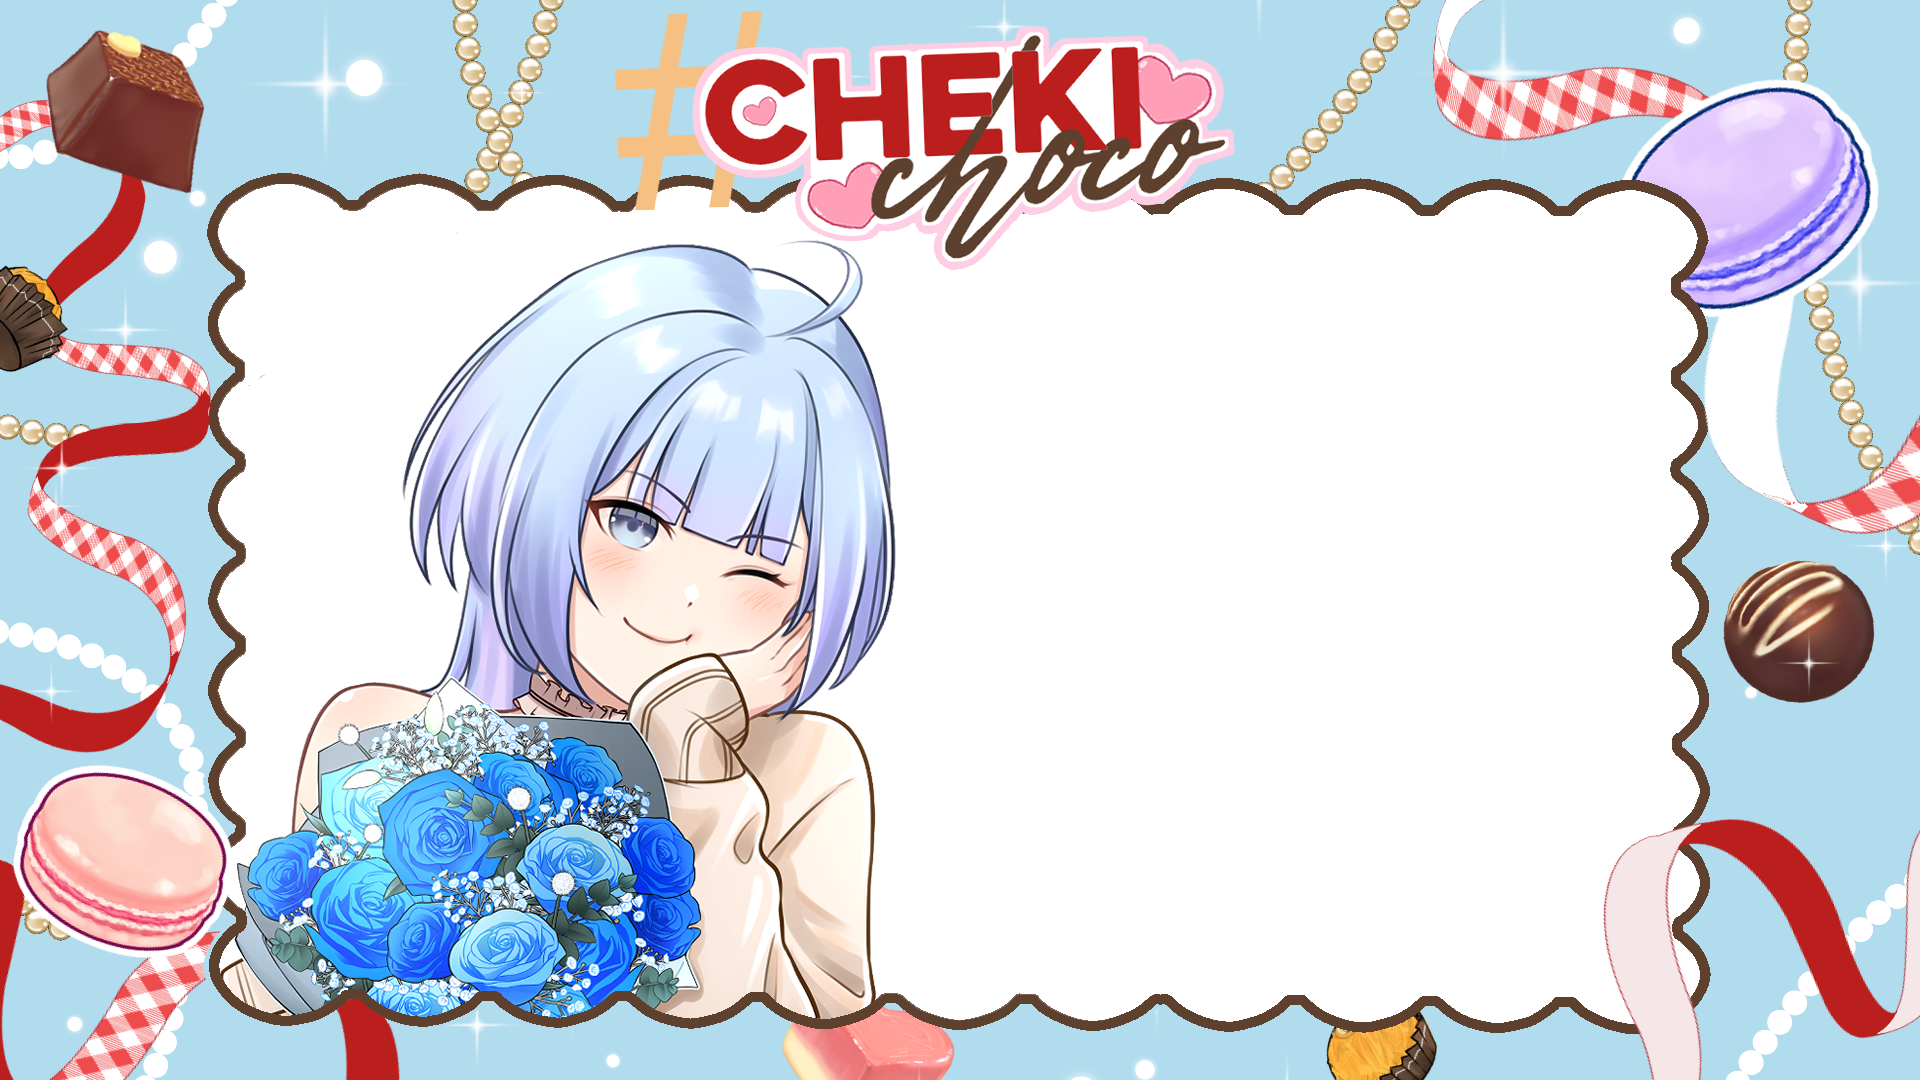
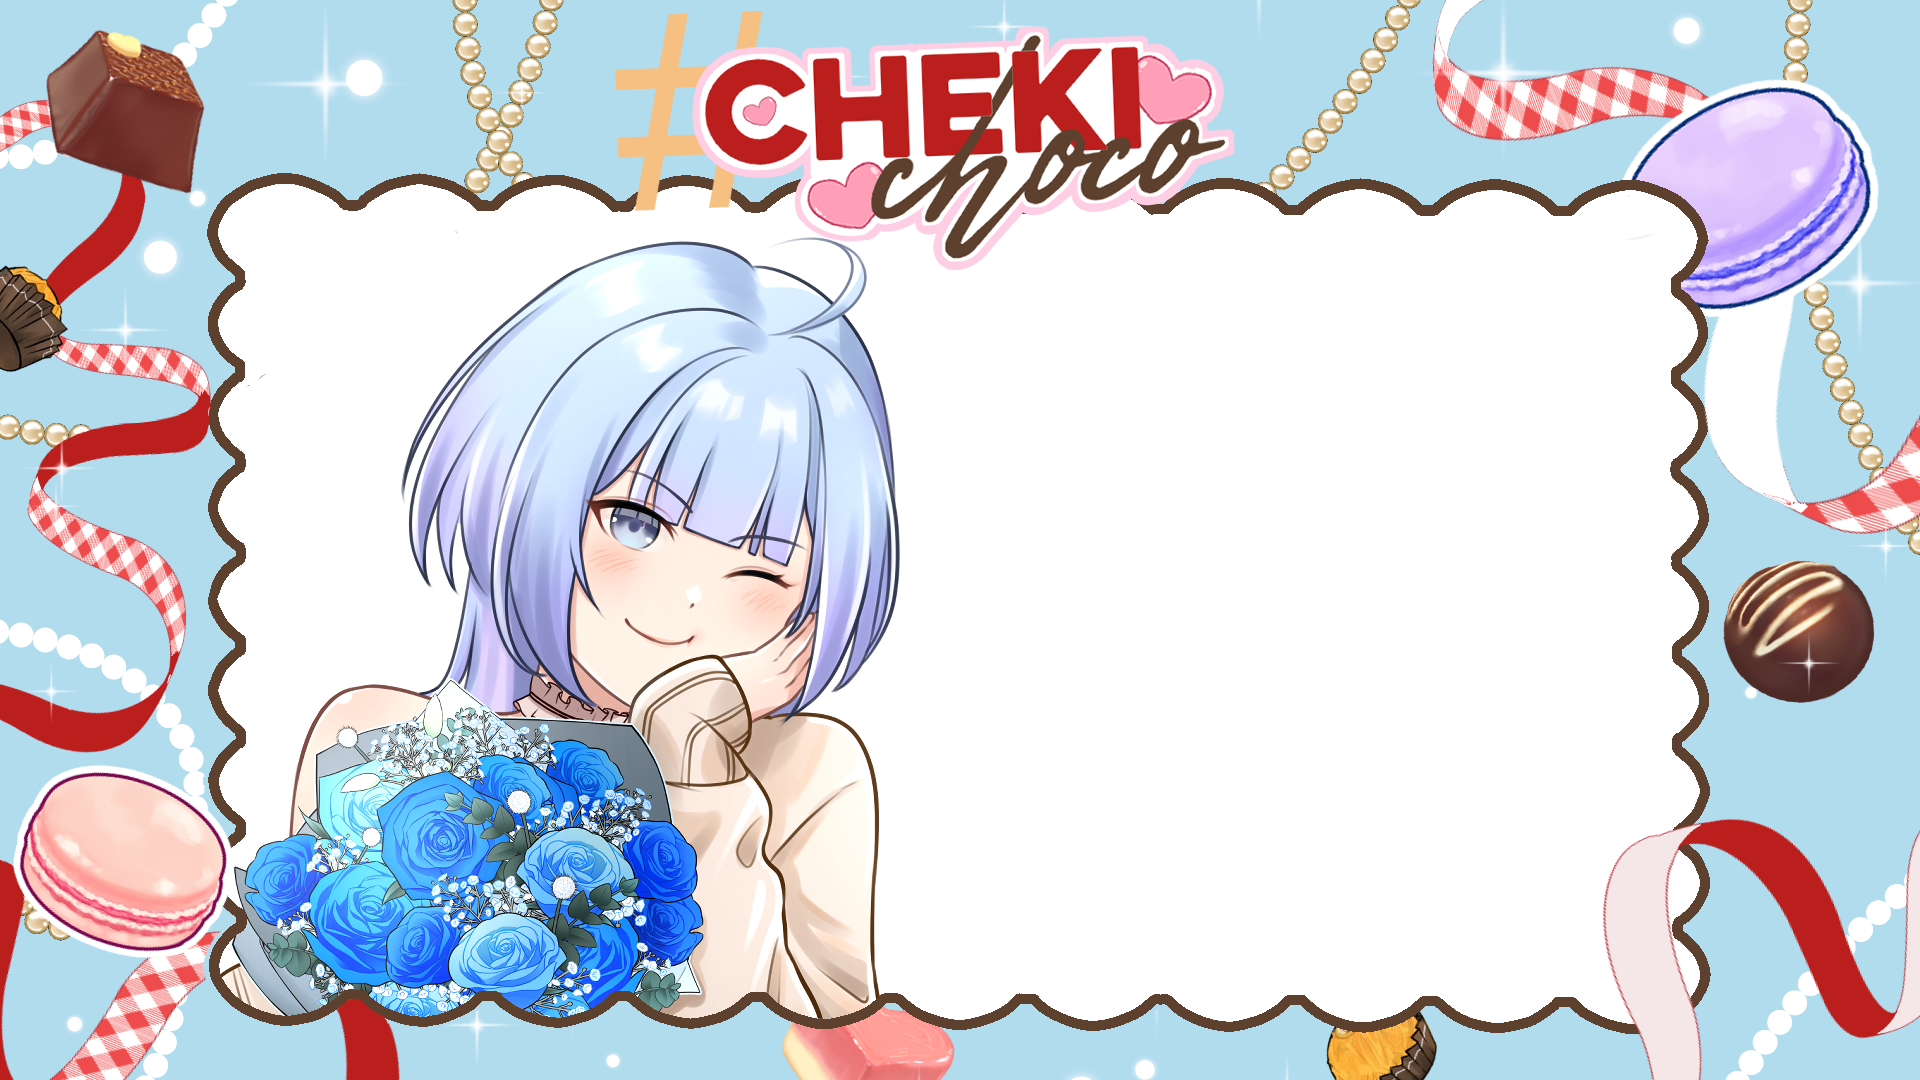
feat: add tana-ktp-frame.png

diff --git a/src/App.tsx b/src/App.tsx
@@ -7,7 +7,7 @@ const App: React.FC = () => {
   const [isFirstInteraction, setIsFirstInteraction] = useState<boolean>(true); // Track first interaction
   const videoRef = useRef<HTMLVideoElement>(null);
   const canvasRef = useRef<HTMLCanvasElement>(null);
-  const [frames] = useState<string[]>(["kana-frame.png", "kana-ktp-frame.png", "tana-frame.png", "pia-frame.png", "pia-ktp-frame.png"]);
+  const [frames] = useState<string[]>(["kana-frame.png", "kana-ktp-frame.png", "tana-frame.png", "tana-ktp-frame.png", "pia-frame.png", "pia-ktp-frame.png"]);
   const [selectedFrame, setSelectedFrame] = useState<string>("kana-frame.png");
   const [capturedImage, setCapturedImage] = useState<string | null>(null);
   const [countdown, setCountdown] = useState<number>(0);
